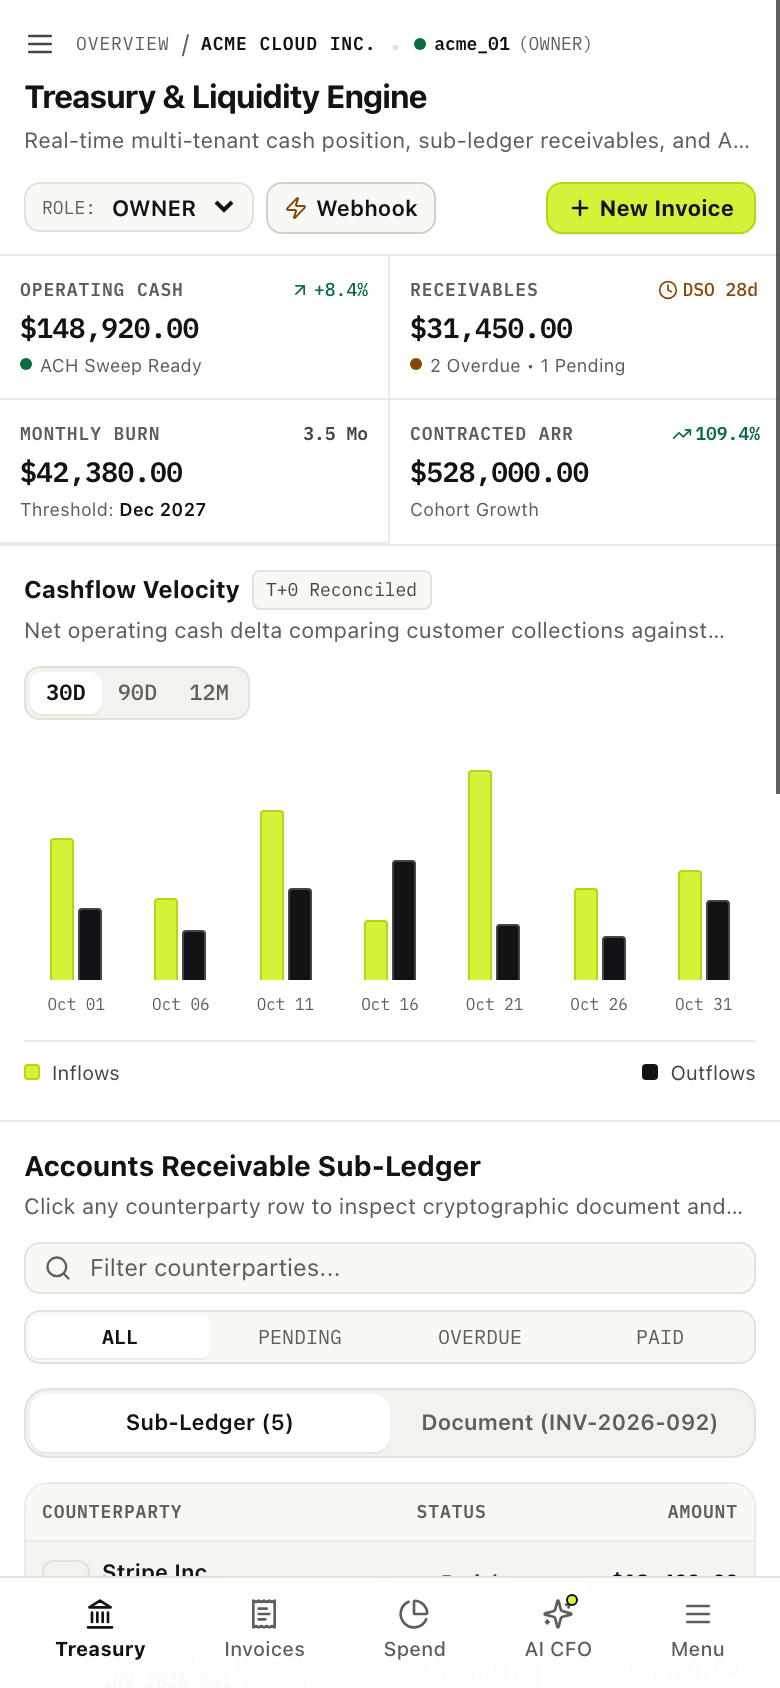
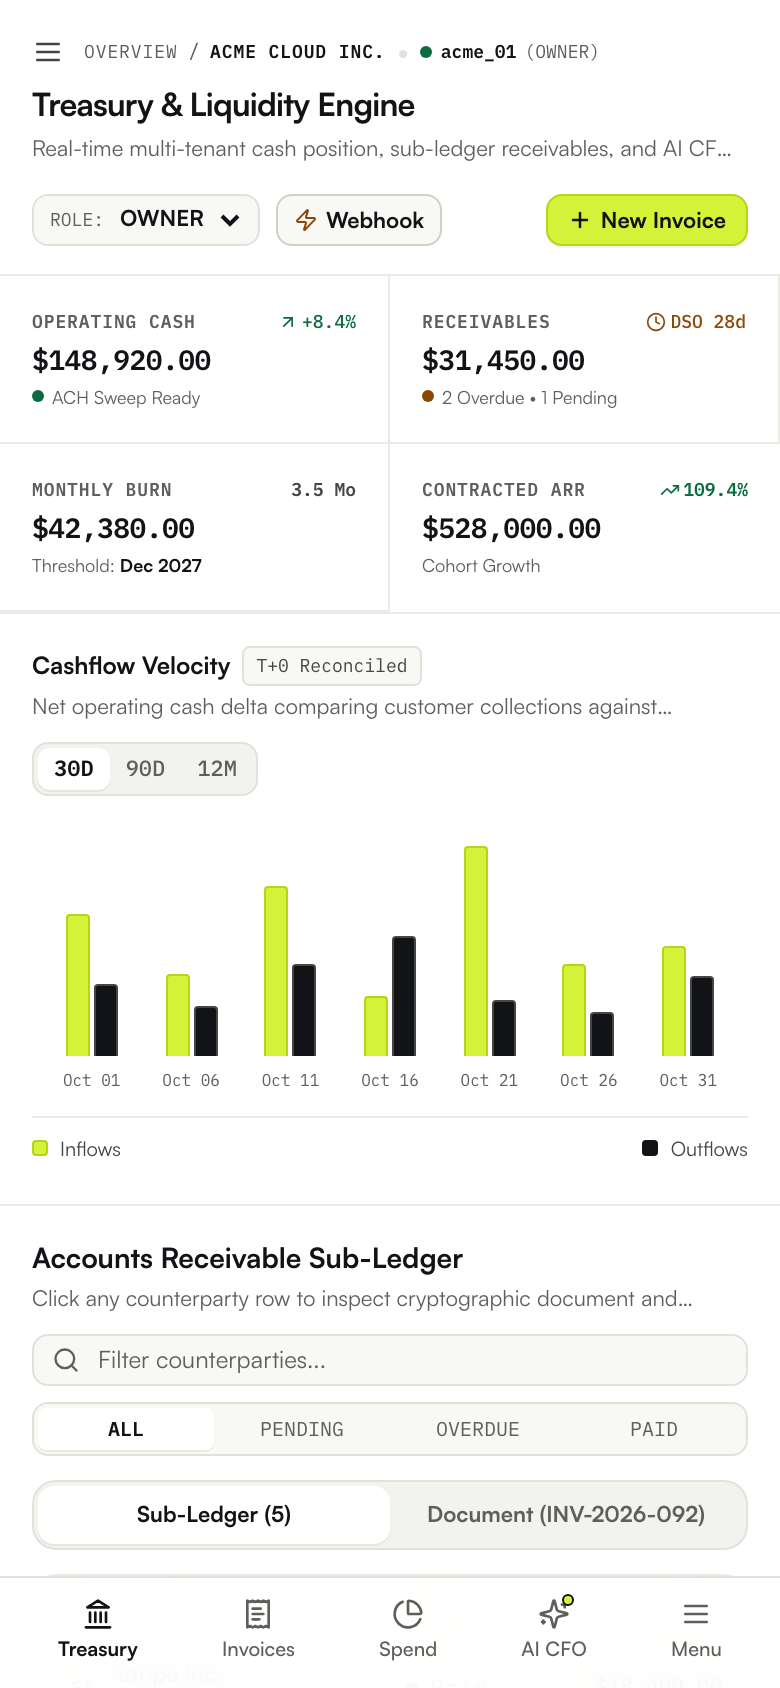
style(mobile): increase mobile gutter to standard 16px (px-4/p-4) for comfortable breathing room

diff --git a/src/components/treasury/subledger-table.tsx b/src/components/treasury/subledger-table.tsx
@@ -56,11 +56,11 @@ export function SubLedgerTable({
       <table className="w-full text-left text-xs border-collapse table-fixed">
         <thead>
           <tr className="border-b border-[#EBEBE6] bg-[#F8F8F5] text-[#5C605A] font-mono text-[9px] sm:text-[11px] uppercase tracking-wider">
-            <th className="py-2 sm:py-3 px-2 sm:px-4 font-semibold w-[52%] sm:w-auto">Counterparty</th>
+            <th className="py-2.5 sm:py-3 px-3 sm:px-4 font-semibold w-[50%] sm:w-auto">Counterparty</th>
             <th className="hidden sm:table-cell py-2.5 sm:py-3 px-3 sm:px-4 font-semibold">Invoice No.</th>
-            <th className="py-2 sm:py-3 px-1.5 sm:px-4 font-semibold w-[22%] sm:w-auto">Status</th>
+            <th className="py-2.5 sm:py-3 px-2 sm:px-4 font-semibold w-[22%] sm:w-auto">Status</th>
             <th className="hidden md:table-cell py-2.5 sm:py-3 px-3 sm:px-4 font-semibold">Due Date</th>
-            <th className="py-2 sm:py-3 px-2 sm:px-4 font-semibold text-right w-[26%] sm:w-auto">Amount</th>
+            <th className="py-2.5 sm:py-3 px-3 sm:px-4 font-semibold text-right w-[28%] sm:w-auto">Amount</th>
             <th className="hidden sm:table-cell py-2.5 sm:py-3 px-1 sm:px-2 w-6"></th>
           </tr>
         </thead>
@@ -78,7 +78,7 @@ export function SubLedgerTable({
                 }`}
               >
                 {/* Counterparty avatar and name */}
-                <td className="py-2 sm:py-3 px-2 sm:px-4 min-w-0">
+                <td className="py-2.5 sm:py-3 px-3 sm:px-4 min-w-0">
                   <div className="flex items-center gap-1.5 sm:gap-2.5 min-w-0">
                     <div className="w-6 h-6 sm:w-7 sm:h-7 rounded-md bg-[#F2F2EE] border border-[#E2E2DC] flex items-center justify-center font-mono font-bold text-[9px] sm:text-[10px] text-[#121316] flex-shrink-0">
                       {getInitials(inv.customer_name)}
@@ -101,7 +101,7 @@ export function SubLedgerTable({
                 </td>
 
                 {/* Status Dot */}
-                <td className="py-2 sm:py-3 px-1.5 sm:px-4 whitespace-nowrap min-w-0">
+                <td className="py-2.5 sm:py-3 px-2 sm:px-4 whitespace-nowrap min-w-0">
                   {renderStatusDot(inv.status)}
                 </td>
 
@@ -111,7 +111,7 @@ export function SubLedgerTable({
                 </td>
 
                 {/* Amount */}
-                <td className="py-2 sm:py-3 px-2 sm:px-4 text-right font-mono text-[11px] sm:text-[13px] font-bold text-[#121316] tabular whitespace-nowrap">
+                <td className="py-2.5 sm:py-3 px-3 sm:px-4 text-right font-mono text-[11px] sm:text-[13px] font-bold text-[#121316] tabular whitespace-nowrap">
                   {formatCurrency(inv.total_amount, inv.currency)}
                 </td>
 

diff --git a/src/components/treasury/metric-strip.tsx b/src/components/treasury/metric-strip.tsx
@@ -26,7 +26,7 @@ export function MetricStrip({
   return (
     <div className="grid grid-cols-2 lg:grid-cols-4 border-b border-[#EBEBE6] divide-x divide-y lg:divide-y-0 divide-[#EBEBE6] bg-[#FFFFFF] w-full max-w-full overflow-hidden">
       {/* Metric 1: Operating Cash Balance */}
-      <div className="p-2.5 sm:p-5 min-w-0">
+      <div className="p-4 sm:p-5 min-w-0">
         <div className="flex items-center justify-between mb-0.5 sm:mb-2 gap-1">
           <span className="text-[9px] sm:text-[11px] font-mono uppercase tracking-wider text-[#5C605A] font-semibold truncate">
             Operating Cash
@@ -46,7 +46,7 @@ export function MetricStrip({
       </div>
 
       {/* Metric 2: Accounts Receivable */}
-      <div className="p-2.5 sm:p-5 min-w-0">
+      <div className="p-4 sm:p-5 min-w-0">
         <div className="flex items-center justify-between mb-0.5 sm:mb-2 gap-1">
           <span className="text-[9px] sm:text-[11px] font-mono uppercase tracking-wider text-[#5C605A] font-semibold truncate">
             Receivables
@@ -66,7 +66,7 @@ export function MetricStrip({
       </div>
 
       {/* Metric 3: Monthly Burn & Runway */}
-      <div className="p-2.5 sm:p-5 min-w-0">
+      <div className="p-4 sm:p-5 min-w-0">
         <div className="flex items-center justify-between mb-0.5 sm:mb-2 gap-1">
           <span className="text-[9px] sm:text-[11px] font-mono uppercase tracking-wider text-[#5C605A] font-semibold truncate">
             Monthly Burn
@@ -84,7 +84,7 @@ export function MetricStrip({
       </div>
 
       {/* Metric 4: Net Contract ARR */}
-      <div className="p-2.5 sm:p-5 min-w-0">
+      <div className="p-4 sm:p-5 min-w-0">
         <div className="flex items-center justify-between mb-0.5 sm:mb-2 gap-1">
           <span className="text-[9px] sm:text-[11px] font-mono uppercase tracking-wider text-[#5C605A] font-semibold truncate">
             Contracted ARR

diff --git a/src/app/(dashboard)/spend/page.tsx b/src/app/(dashboard)/spend/page.tsx
@@ -15,7 +15,7 @@ export default function SpendPage() {
           <div className="space-y-4 sm:space-y-6 w-full max-w-full overflow-hidden box-border">
             {/* KPI Cards */}
             <div className="grid grid-cols-1 sm:grid-cols-3 border-b border-[#EBEBE6] divide-y sm:divide-y-0 sm:divide-x divide-[#EBEBE6] bg-[#FFFFFF] w-full">
-              <div className="p-3.5 sm:p-6 min-w-0">
+              <div className="p-4 sm:p-6 min-w-0">
                 <span className="text-[10px] sm:text-[11px] font-mono uppercase text-[#5C605A] block mb-1 font-semibold">
                   Quarterly Approved Cap
                 </span>
@@ -25,7 +25,7 @@ export default function SpendPage() {
                 <p className="text-[11px] text-[#5C605A] mt-1">Across 3 Operating Units</p>
               </div>
 
-              <div className="p-3.5 sm:p-6 min-w-0">
+              <div className="p-4 sm:p-6 min-w-0">
                 <span className="text-[10px] sm:text-[11px] font-mono uppercase text-[#5C605A] block mb-1 font-semibold">
                   Actual Spend Realized
                 </span>
@@ -35,7 +35,7 @@ export default function SpendPage() {
                 <p className="text-[11px] text-[#0B6B41] font-mono mt-1 font-semibold">90.1% Utilized</p>
               </div>
 
-              <div className="p-3.5 sm:p-6 min-w-0">
+              <div className="p-4 sm:p-6 min-w-0">
                 <span className="text-[10px] sm:text-[11px] font-mono uppercase text-[#5C605A] block mb-1 font-semibold">
                   Policy Breaches
                 </span>

diff --git a/src/components/layout/canvas-header.tsx b/src/components/layout/canvas-header.tsx
@@ -26,7 +26,7 @@ export function CanvasHeader({
   subtitle = 'Real-time multi-tenant cash position, sub-ledger receivables, and AI CFO surveillance.',
 }: CanvasHeaderProps) {
   return (
-    <header className="px-3 sm:px-6 py-2.5 sm:py-5 border-b border-[#EBEBE6] flex flex-col md:flex-row md:items-center md:justify-between gap-2.5 sm:gap-4 bg-[#FFFFFF] w-full">
+    <header className="px-4 sm:px-6 py-3.5 sm:py-5 border-b border-[#EBEBE6] flex flex-col md:flex-row md:items-center md:justify-between gap-3 sm:gap-4 bg-[#FFFFFF] w-full">
       <div className="flex items-start justify-between gap-2 min-w-0 w-full">
         <div className="min-w-0 flex-1">
           <div className="flex items-center gap-1.5 sm:gap-2 mb-0.5 sm:mb-1 flex-wrap">
@@ -65,7 +65,7 @@ export function CanvasHeader({
         </div>
       </div>
 
-      <div className="flex items-center gap-1.5 sm:gap-2.5 flex-wrap pt-0.5 md:pt-0 w-full md:w-auto justify-start">
+      <div className="flex items-center gap-2 sm:gap-2.5 flex-wrap pt-0.5 md:pt-0 w-full md:w-auto justify-start">
         {/* Role Switcher */}
         <div className="flex items-center gap-1 bg-[#F8F8F5] border border-[#E2E2DC] px-2 py-1 rounded-lg text-[11px]">
           <span className="text-[9px] sm:text-[10px] font-mono text-[#5C605A] uppercase">Role:</span>

diff --git a/src/components/treasury/cashflow-chart.tsx b/src/components/treasury/cashflow-chart.tsx
@@ -44,7 +44,7 @@ export function CashflowChart({ currency }: CashflowChartProps) {
   const maxVal = Math.max(...currentData.map((d) => Math.max(d.inflow, d.outflow)));
 
   return (
-    <div className="p-3 sm:p-6 border-b border-[#EBEBE6] bg-[#FFFFFF] w-full max-w-full overflow-hidden box-border">
+    <div className="p-4 sm:p-6 border-b border-[#EBEBE6] bg-[#FFFFFF] w-full max-w-full overflow-hidden box-border">
       <div className="flex flex-col sm:flex-row sm:items-center sm:justify-between gap-2.5 sm:gap-4 mb-3 sm:mb-6">
         <div>
           <div className="flex items-center gap-1.5 sm:gap-2 flex-wrap">
@@ -80,7 +80,7 @@ export function CashflowChart({ currency }: CashflowChartProps) {
 
       {/* SVG / HTML Bar & Trend Representation */}
       <div className="relative pt-2 pb-1 w-full max-w-full overflow-hidden">
-        <div className="h-32 sm:h-44 flex items-end gap-1 sm:gap-4 justify-between px-0.5 sm:px-2 w-full max-w-full">
+        <div className="h-32 sm:h-44 flex items-end gap-1.5 sm:gap-4 justify-between px-2 sm:px-4 w-full max-w-full">
           {currentData.map((d, idx) => {
             const inflowHeight = (d.inflow / maxVal) * 105;
             const outflowHeight = (d.outflow / maxVal) * 105;

diff --git a/src/app/(dashboard)/page.tsx b/src/app/(dashboard)/page.tsx
@@ -57,7 +57,7 @@ export default function DashboardPage() {
             <CashflowChart currency={currentTenant.currency} />
 
             {/* 3. Sub-Ledger Master / Detail Split View */}
-            <div className="p-3 sm:p-6 border-b border-[#EBEBE6] bg-[#FFFFFF] w-full max-w-full overflow-hidden box-border">
+            <div className="p-4 sm:p-6 border-b border-[#EBEBE6] bg-[#FFFFFF] w-full max-w-full overflow-hidden box-border">
               <div className="flex flex-col sm:flex-row sm:items-center sm:justify-between gap-2.5 sm:gap-4 mb-3 sm:mb-4">
                 <div>
                   <h2 className="text-sm sm:text-base font-bold text-[#121316] font-display">

diff --git a/src/app/(dashboard)/ai-cfo/page.tsx b/src/app/(dashboard)/ai-cfo/page.tsx
@@ -18,7 +18,7 @@ export default function AiCfoPage() {
               currency={currentTenant.currency}
             />
 
-            <div className="p-3.5 sm:p-6 bg-[#FFFFFF] border-t border-[#EBEBE6] w-full max-w-full overflow-hidden">
+            <div className="p-4 sm:p-6 bg-[#FFFFFF] border-t border-[#EBEBE6] w-full max-w-full overflow-hidden">
               <div className="flex items-center gap-2 mb-3">
                 <BrainCircuit className="w-4 h-4 text-[#121316] flex-shrink-0" />
                 <h3 className="text-sm font-bold text-[#121316] font-display">

diff --git a/src/app/(dashboard)/invoices/page.tsx b/src/app/(dashboard)/invoices/page.tsx
@@ -58,7 +58,7 @@ export default function InvoicesPage() {
           .reduce((acc, i) => acc + i.total_amount, 0);
 
         return (
-          <div className="p-3.5 sm:p-6 space-y-4 sm:space-y-6 w-full max-w-full overflow-hidden box-border">
+          <div className="p-4 sm:p-6 space-y-4 sm:space-y-6 w-full max-w-full overflow-hidden box-border">
             {/* Quick KPI Row */}
             <div className="grid grid-cols-1 sm:grid-cols-3 gap-3 sm:gap-4 w-full">
               <div className="p-3.5 sm:p-4 rounded-xl border border-[#E2E2DC] bg-[#F8F8F5]">

diff --git a/src/components/ai-cfo/anomaly-panel.tsx b/src/components/ai-cfo/anomaly-panel.tsx
@@ -23,7 +23,7 @@ export function AnomalyPanel({ anomalies: initialAnomalies, currency }: AnomalyP
   };
 
   return (
-    <div className="p-3.5 sm:p-6 bg-[#FFFFFF] border-b border-[#EBEBE6] w-full max-w-full overflow-hidden box-border">
+    <div className="p-4 sm:p-6 bg-[#FFFFFF] border-b border-[#EBEBE6] w-full max-w-full overflow-hidden box-border">
       <div className="flex flex-col sm:flex-row sm:items-center sm:justify-between gap-3 mb-4 sm:mb-6">
         <div>
           <div className="flex items-center gap-2">
